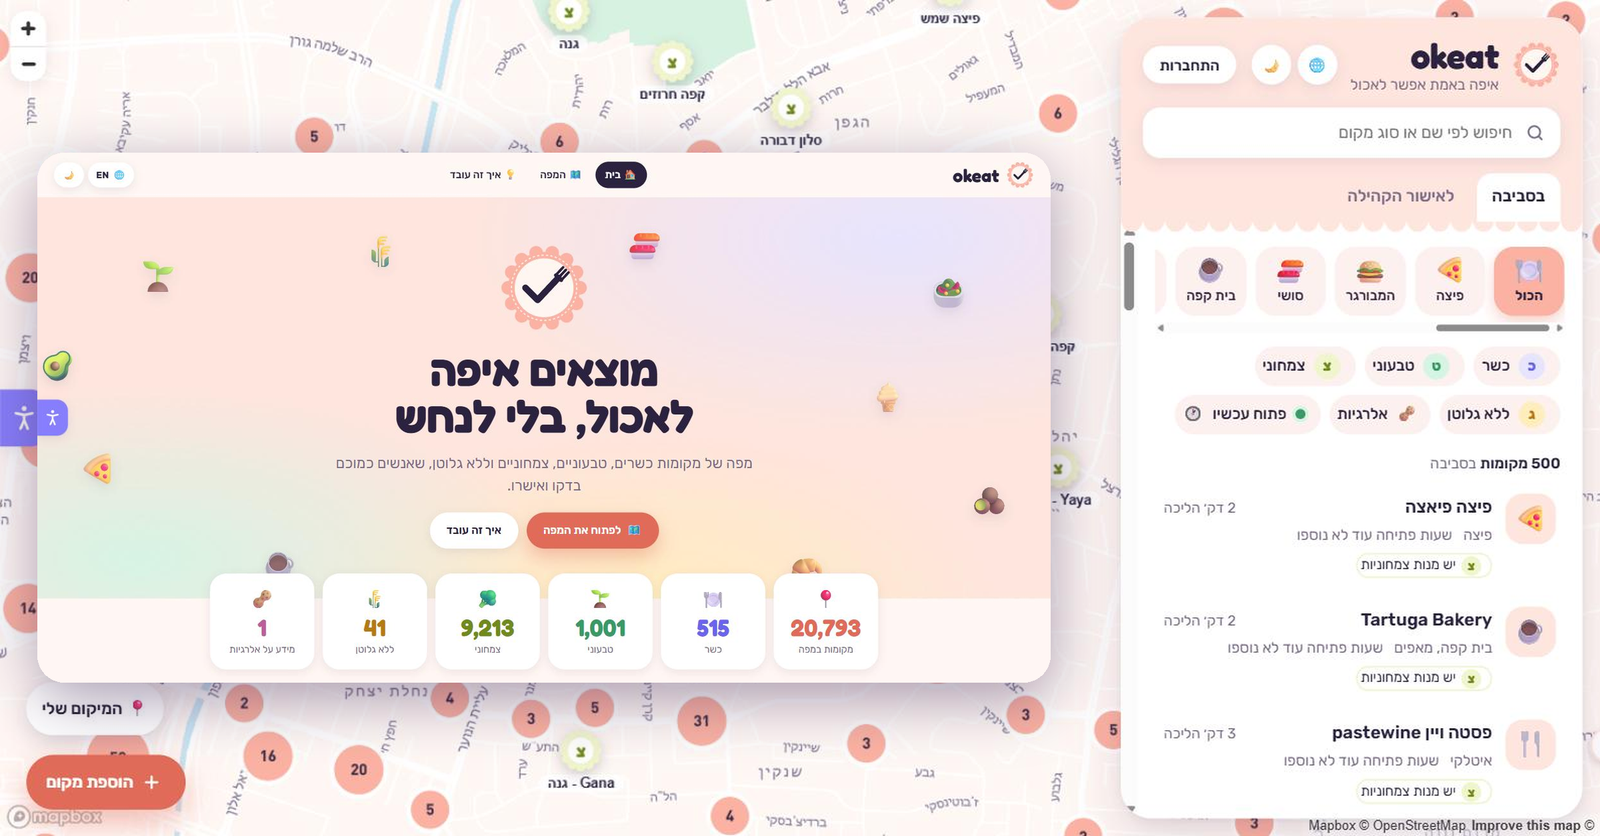
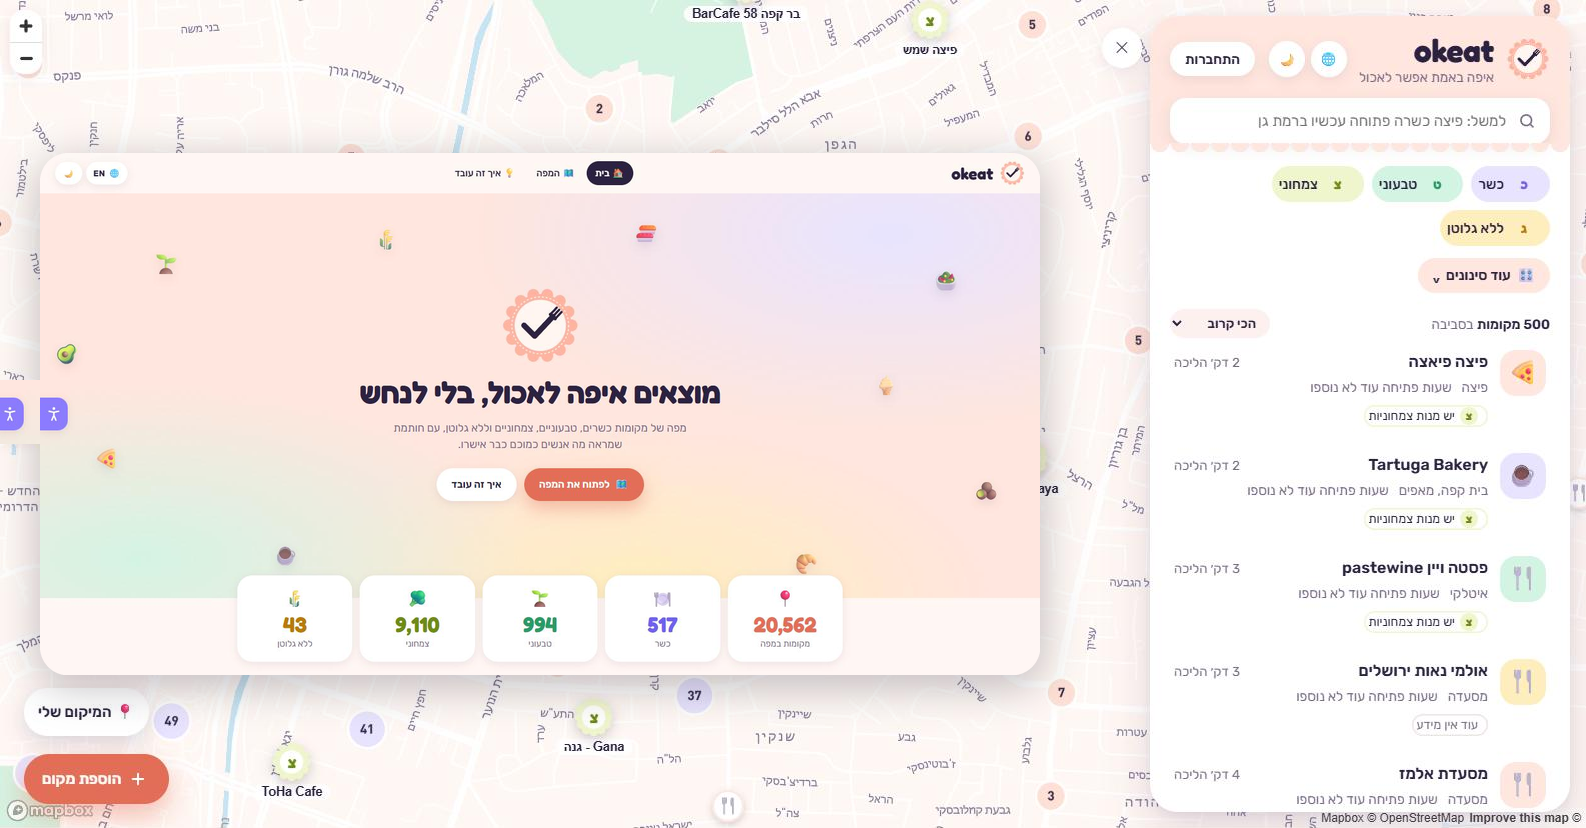
Update images and README

diff --git a/src/components/Stats.tsx b/src/components/Stats.tsx
@@ -27,7 +27,7 @@ export default function Stats() {
     return () => { clearInterval(timer); document.removeEventListener('visibilitychange', load); };
   }, [sb]);
 
-  // all the allergies in one tile; it appears once there is something to show
+  // all the allergies in one tile; it appears once there is enough to show
   const allergies = EXTRA_NEEDS.reduce((sum, n) => sum + (counts?.[n] ?? 0), 0);
 
   return (
@@ -44,7 +44,7 @@ export default function Stats() {
           <span className="stat-label">{needLabel(n, L.lang)}</span>
         </li>
       ))}
-      {allergies > 0 && (
+      {allergies >= 50 && (
         <li className="stat e">
           <span className="stat-emoji" aria-hidden="true">🥜</span>
           <CountUp value={allergies} />

diff --git a/README.he.md b/README.he.md
@@ -27,11 +27,11 @@
 - **נגישות**: גודל טקסט, ניגודיות גבוהה, מצב כהה, הקראה, עצירת אנימציות, גופן קריא ותמיכה מלאה במקלדת
 - **מידע חי מגוגל** (לא חובה): סוג המקום, שעות, דירוג ושירותים, מוצג רק כשפותחים מקום ולא נשמר
 - **ביקורות, מועדפים ותמונות**: דירוג של 1 עד 5 כוכבים עם תגובה קצרה, רשימה פרטית של מקומות שמורים בפרופיל, ותמונות של מקומות שמופיעות אחרי אישור מנהל.
-- **בדיקות**: בדיקות אוטומטיות רצות ב-GitHub בכל העלאה, ושגיאות מהדפדפן נאספות באופן פרטי למנהלת.
+- **בדיקות**: בדיקות אוטומטיות ובדיקות מסכים בדפדפן אמיתי רצות ב-GitHub בכל העלאה, ושגיאות מהדפדפן נאספות באופן פרטי למנהלת.
 - **חיפוש חכם**: "פיצה כשרה פתוחה עכשיו ברמת גן" הופך לסינון ולעיר, ואפשר לשמור סינון קבוע במכשיר.
 - **רשימות והתראות**: רשימות לשיתוף, מקומות דומים, תגים והתראות באתר כשמידע אושר או כשתעודה עומדת להסתיים.
 - **בעלי עסקים**: בעל עסק מאומת מעדכן שעות, טלפון, אתר וקישור לתפריט.
-- **דפי ערים והתקנה בטלפון**: דף לכל עיר מרכזית, ואייקון למסך הבית.
+- **דפי ערים והתקנה בטלפון**: דף לכל עיר מרכזית ולכל צורך, ואייקון למסך הבית.
 - **כלי ניהול**: לוח נתונים, מכסות, יומן פעולות, משתמשים ותפקידים, הודעות יצירת קשר, אישור תמונות ואיחוד כפילויות.
 - **ניהול קהילתי**: 3 דיווחים שולחים מקום למנהלים. מנהלים ממונים על ידי מנהלת האתר, מידע שהיא מוסיפה מאושר מיד, ואנשים יכולים לתקן סיווגים אוטומטיים
 - **פרופילים ציבוריים**: תאריך הצטרפות, מקומות שנוספו ואישורים, בלי כתובת מייל
